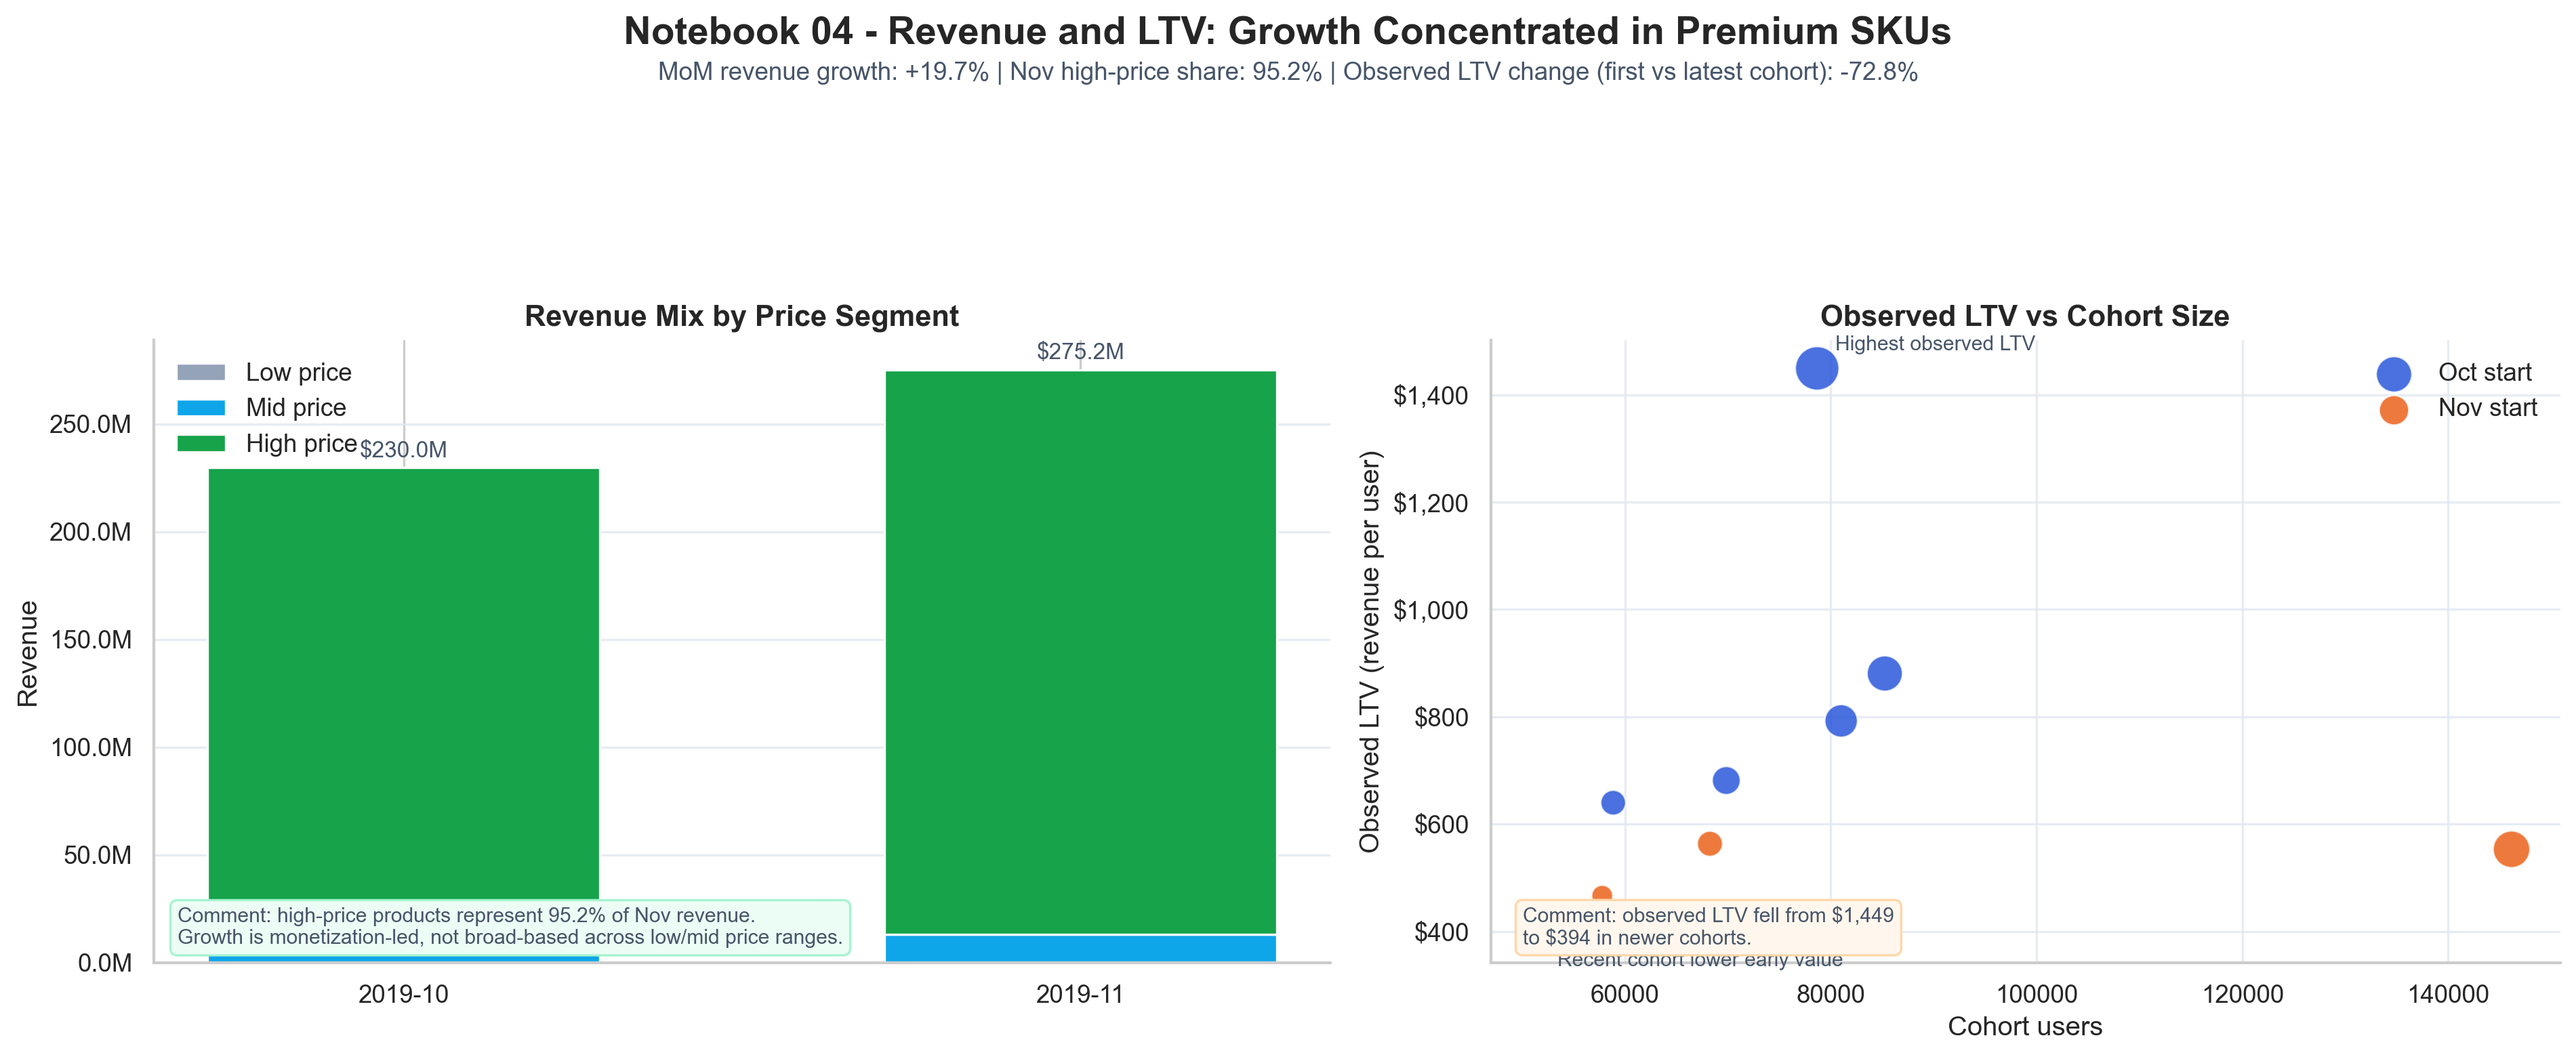
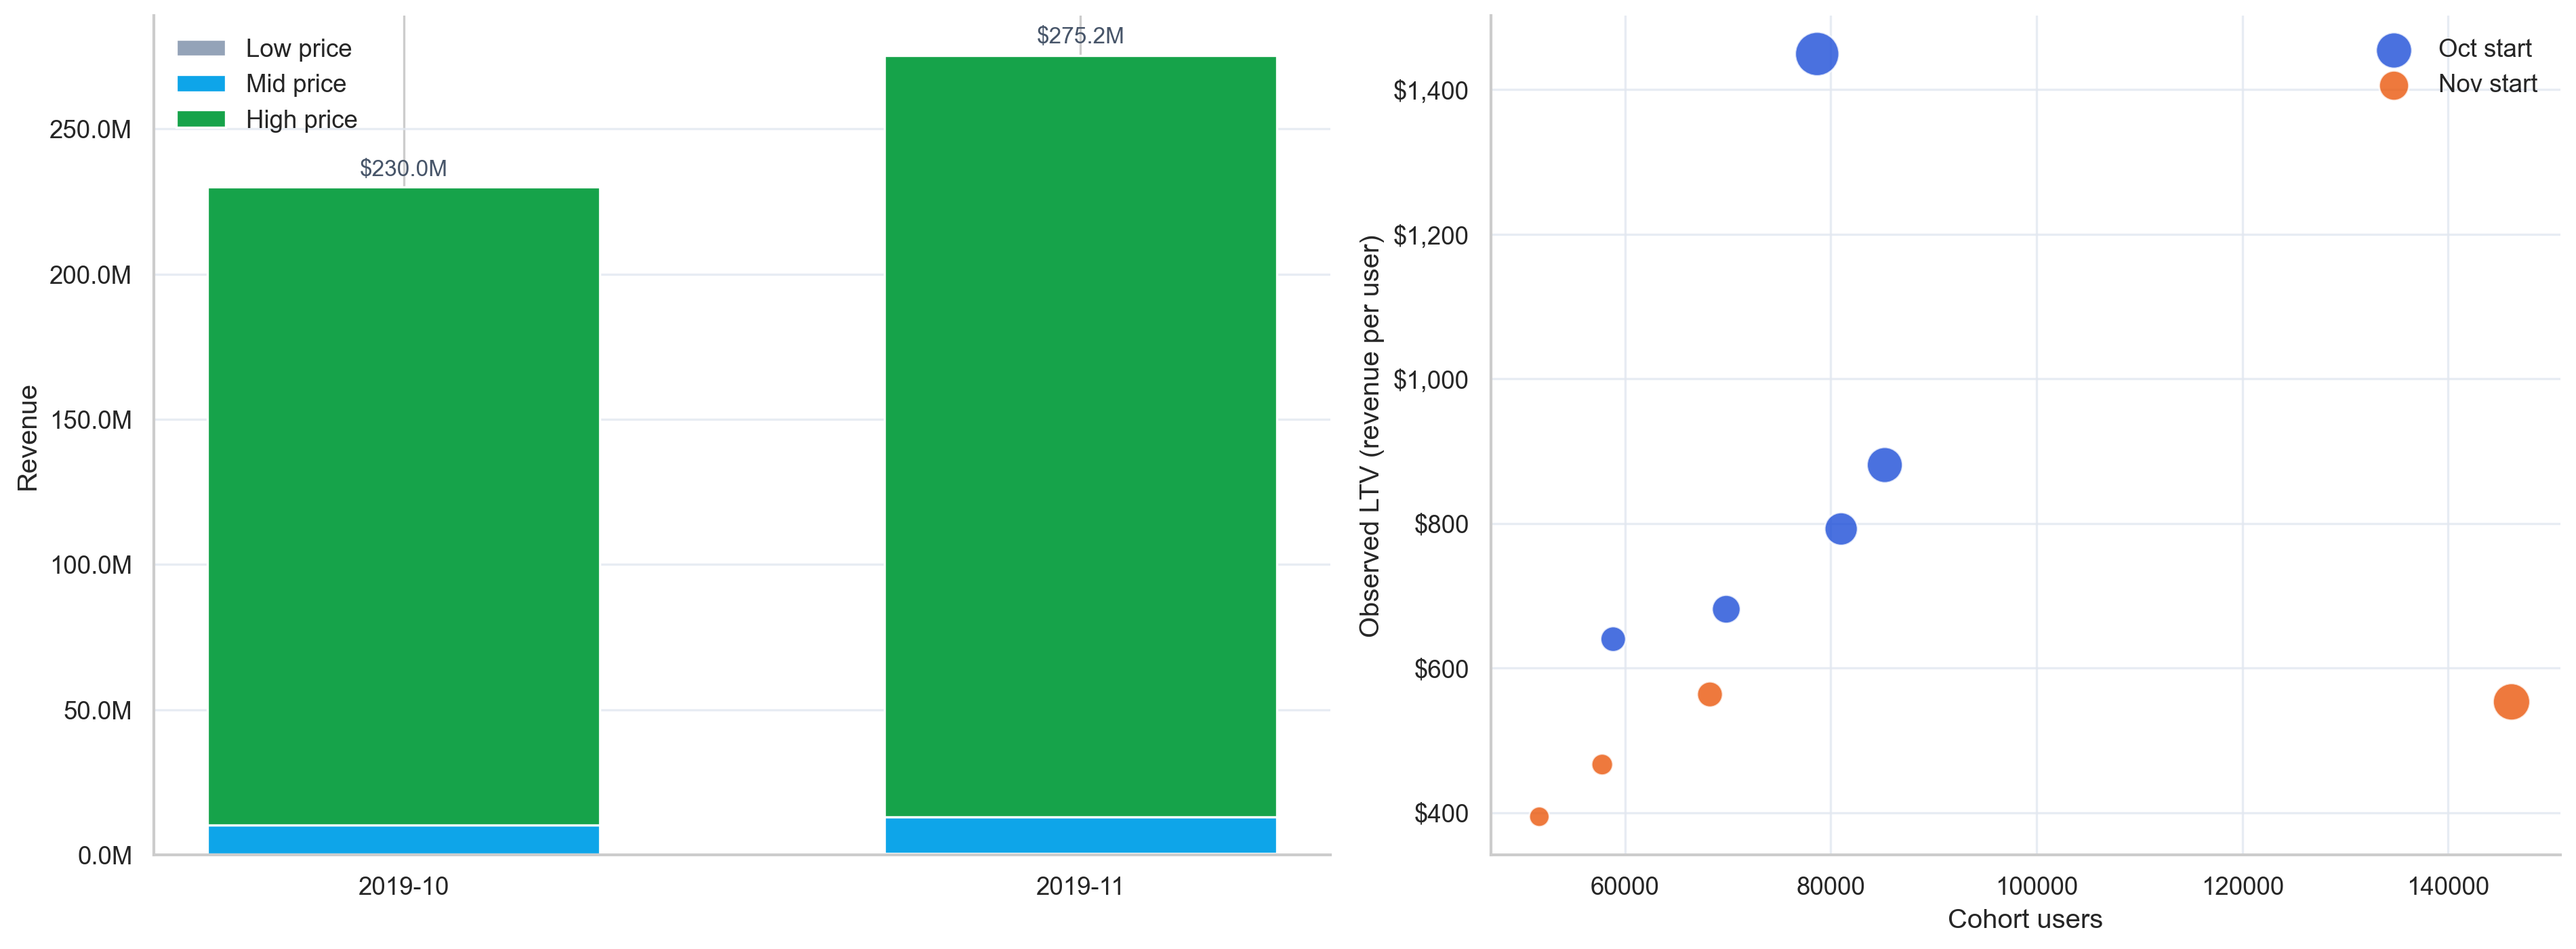
clean chart visuals and move narrative to html

diff --git a/docs/index.html b/docs/index.html
@@ -16,11 +16,15 @@
     ul { margin: 10px 0 0 20px; }
     li { margin: 6px 0; }
     .divider { height:1px; background:#eee; margin: 14px 0; }
-    .grid { display:grid; grid-template-columns: 1fr; gap: 14px; }
+    .grid { display:grid; grid-template-columns: 1fr; gap: 16px; }
     .visual { margin-top: 10px; }
     img { width:100%; border-radius: 10px; border:1px solid #eee; display:block; }
     .note { font-size: 13px; color:#555; margin-top:8px; }
     code { background:#f6f6f6; padding:2px 6px; border-radius: 6px; }
+    .viz-card { border:1px solid #e9e9e9; border-radius: 12px; padding: 14px; background: #fcfcfc; }
+    .viz-title { margin: 2px 0 6px 0; font-size: 20px; }
+    .viz-kicker { margin: 0 0 10px 0; color:#555; font-size: 14px; }
+    .viz-insight { margin: 10px 0 0 0; color:#333; font-size: 14px; }
   </style>
 </head>
 <body>
@@ -57,19 +61,25 @@
       <div class="meta">These images are generated automatically in <code>/assets</code> by the script in this repo.</div>
 
       <div class="grid">
-        <div>
+        <div class="viz-card">
+          <h4 class="viz-title">01) Funnel Conversion and Volume Dynamics</h4>
+          <p class="viz-kicker">Left: conversion by stage. Right: user volume by stage.</p>
           <img src="https://raw.githubusercontent.com/Victor-Garlet/growth-funnel-analytics/main/assets/funnel.png" alt="Funnel conversion by month" />
-          <p class="meta">Interpretation: intent improved in the upper funnel, but checkout conversion fell, indicating friction in the final purchase step.</p>
+          <p class="viz-insight"><strong>Insight:</strong> View-to-cart rose from 11.2% to 22.4%, but cart-to-purchase fell from 60.2% to 48.4%. Interest improved, while checkout efficiency weakened.</p>
         </div>
 
-        <div>
+        <div class="viz-card">
+          <h4 class="viz-title">02) Cohort Retention Quality</h4>
+          <p class="viz-kicker">Left: retention heatmap by cohort week. Right: retention decay curve by cohort group.</p>
           <img src="https://raw.githubusercontent.com/Victor-Garlet/growth-funnel-analytics/main/assets/retention.png" alt="Weekly retention heatmap by cohort" />
-          <p class="meta">Interpretation: repeat behavior is front-loaded, and newer cohorts start weaker than older cohorts in week 1.</p>
+          <p class="viz-insight"><strong>Insight:</strong> Average repeat drops from 13.3% in week 1 to 10.2% in week 2, and November cohorts start below October cohorts at week 1 (-3.6 pp).</p>
         </div>
 
-        <div>
+        <div class="viz-card">
+          <h4 class="viz-title">03) Revenue Mix and Cohort Monetization</h4>
+          <p class="viz-kicker">Left: monthly revenue mix by price segment. Right: observed LTV vs cohort size.</p>
           <img src="https://raw.githubusercontent.com/Victor-Garlet/growth-funnel-analytics/main/assets/revenue.png" alt="Revenue by price segment" />
-          <p class="meta">Interpretation: growth is monetization-led by premium products, while newer cohorts show lower observed early LTV.</p>
+          <p class="viz-insight"><strong>Insight:</strong> Revenue grew +19.7% MoM and 95.2% of November revenue came from high-price products. Newer cohorts show lower early observed LTV, signaling quality pressure.</p>
         </div>
       </div>
 

diff --git a/generate_portfolio_assets.py b/generate_portfolio_assets.py
@@ -241,7 +241,7 @@ def fmt_million(x: float, _pos: int | None = None) -> str:
     return f"{x / 1_000_000:.1f}M"
 
 
-def save_funnel_chart(funnel: pd.DataFrame, tracking_gap: pd.DataFrame, out_path: Path, dpi: int) -> None:
+def save_funnel_chart(funnel: pd.DataFrame, _tracking_gap: pd.DataFrame, out_path: Path, dpi: int) -> None:
     funnel = funnel.copy()
     funnel["event_month"] = funnel["event_month"].astype(str)
     rate_cols = ["view_to_cart_rate", "cart_to_purchase_rate", "view_to_purchase_rate"]
@@ -255,7 +255,6 @@ def save_funnel_chart(funnel: pd.DataFrame, tracking_gap: pd.DataFrame, out_path
     ax_rates.bar(x - w, funnel["view_to_cart_rate"], w, color=BLUE, label="View -> Cart")
     ax_rates.bar(x, funnel["cart_to_purchase_rate"], w, color=SLATE, label="Cart -> Purchase")
     ax_rates.bar(x + w, funnel["view_to_purchase_rate"], w, color=GREEN, label="View -> Purchase")
-    ax_rates.set_title("Funnel Conversion by Month", fontsize=13, fontweight="bold")
     ax_rates.set_xticks(x)
     ax_rates.set_xticklabels(funnel["event_month"])
     ax_rates.set_ylabel("Conversion rate")
@@ -281,7 +280,6 @@ def save_funnel_chart(funnel: pd.DataFrame, tracking_gap: pd.DataFrame, out_path
     ax_volumes.bar(x - w, funnel["view_users"], w, color=BLUE, label="View users")
     ax_volumes.bar(x, funnel["cart_users"], w, color=SLATE, label="Cart users")
     ax_volumes.bar(x + w, funnel["purchase_users"], w, color=GREEN, label="Purchase users")
-    ax_volumes.set_title("Monthly Funnel Volume", fontsize=13, fontweight="bold")
     ax_volumes.set_xticks(x)
     ax_volumes.set_xticklabels(funnel["event_month"])
     ax_volumes.set_ylabel("Users")
@@ -291,53 +289,7 @@ def save_funnel_chart(funnel: pd.DataFrame, tracking_gap: pd.DataFrame, out_path
     ax_volumes.spines["right"].set_visible(False)
     ax_volumes.legend(frameon=False, loc="upper right")
 
-    oct_row, nov_row = funnel.iloc[0], funnel.iloc[1]
-    v2c_pp = (nov_row["view_to_cart_rate"] - oct_row["view_to_cart_rate"]) * 100
-    c2p_pp = (nov_row["cart_to_purchase_rate"] - oct_row["cart_to_purchase_rate"]) * 100
-    v2p_pp = (nov_row["view_to_purchase_rate"] - oct_row["view_to_purchase_rate"]) * 100
-    view_mom = (nov_row["view_users"] - oct_row["view_users"]) / oct_row["view_users"]
-    cart_mom = (nov_row["cart_users"] - oct_row["cart_users"]) / oct_row["cart_users"]
-    nov_gap = tracking_gap.loc[tracking_gap["event_month"] == "2019-11", "share_without_cart"].iloc[0]
-
-    ax_rates.text(
-        0.02,
-        0.03,
-        (
-            f"Comment: top-of-funnel intent improved strongly (+{v2c_pp:.1f} pp),\n"
-            f"but checkout efficiency dropped ({c2p_pp:.1f} pp)."
-        ),
-        transform=ax_rates.transAxes,
-        fontsize=9,
-        color=MUTED,
-        bbox={"facecolor": "#EEF2FF", "edgecolor": "#C7D2FE", "boxstyle": "round,pad=0.35"},
-    )
-    ax_volumes.text(
-        0.02,
-        0.03,
-        (
-            f"Comment: cart users grew {cart_mom:+.0%} vs view users {view_mom:+.0%}.\n"
-            "Priority: audit checkout and payment-drop diagnostics."
-        ),
-        transform=ax_volumes.transAxes,
-        fontsize=9,
-        color=MUTED,
-        bbox={"facecolor": "#ECFDF5", "edgecolor": "#A7F3D0", "boxstyle": "round,pad=0.35"},
-    )
-
-    fig.suptitle("Notebook 02 - Growth Funnel: Momentum vs Friction", fontsize=17, fontweight="bold", y=1.08)
-    fig.text(
-        0.5,
-        1.015,
-        (
-            f"View->Cart {v2c_pp:+.1f} pp | Cart->Purchase {c2p_pp:+.1f} pp | "
-            f"View->Purchase {v2p_pp:+.1f} pp | Purchases without cart event (Nov): {pct(nov_gap)}"
-        ),
-        ha="center",
-        fontsize=11,
-        color=MUTED,
-    )
-
-    plt.tight_layout(rect=[0, 0, 1, 0.88])
+    plt.tight_layout()
     fig.savefig(out_path, bbox_inches="tight")
     plt.close(fig)
 
@@ -376,7 +328,6 @@ def save_retention_chart(retention: pd.DataFrame, out_path: Path, dpi: int) -> N
         cbar_kws={"label": "Retention"},
         ax=ax_heatmap,
     )
-    ax_heatmap.set_title("Weekly Purchase Retention Heatmap", fontsize=13, fontweight="bold")
     ax_heatmap.set_xlabel("Weeks Since First Purchase")
     ax_heatmap.set_ylabel("Cohort Week")
 
@@ -401,7 +352,6 @@ def save_retention_chart(retention: pd.DataFrame, out_path: Path, dpi: int) -> N
         color=TEAL,
         label="All cohorts avg",
     )
-    ax_curve.set_title("Retention Decay: Early vs Recent Cohorts", fontsize=13, fontweight="bold")
     ax_curve.set_xlabel("Weeks Since First Purchase")
     ax_curve.set_ylabel("Retention rate")
     ax_curve.yaxis.set_major_formatter(FuncFormatter(lambda v, _p: f"{v:.0%}"))
@@ -412,55 +362,7 @@ def save_retention_chart(retention: pd.DataFrame, out_path: Path, dpi: int) -> N
     ax_curve.spines["right"].set_visible(False)
     ax_curve.legend(frameon=False, loc="upper right")
 
-    wk1 = avg_curve.loc[avg_curve["week_number"] == 1, "retention_rate"].iloc[0]
-    wk2 = avg_curve.loc[avg_curve["week_number"] == 2, "retention_rate"].iloc[0]
-    decay = (wk2 - wk1) * 100
-
-    nov_wk1 = curves.loc[
-        (curves["cohort_group"] == "Recent cohorts (Nov)") & (curves["week_number"] == 1),
-        "retention_rate",
-    ]
-    oct_wk1 = curves.loc[
-        (curves["cohort_group"] == "Early cohorts (Oct)") & (curves["week_number"] == 1),
-        "retention_rate",
-    ]
-    gap_text = ""
-    if not nov_wk1.empty and not oct_wk1.empty:
-        gap = (nov_wk1.iloc[0] - oct_wk1.iloc[0]) * 100
-        gap_text = f" | Nov cohorts vs Oct at week 1: {gap:+.1f} pp"
-
-    ax_curve.text(
-        0.03,
-        0.03,
-        (
-            f"Comment: week 1 repeat = {wk1:.1%}, week 2 = {wk2:.1%} ({decay:+.1f} pp).\n"
-            "Main risk: early repeat weakens quickly after first purchase."
-        ),
-        transform=ax_curve.transAxes,
-        fontsize=9,
-        color=MUTED,
-        bbox={"facecolor": "#F0F9FF", "edgecolor": "#BAE6FD", "boxstyle": "round,pad=0.35"},
-    )
-    ax_heatmap.text(
-        0.02,
-        -0.16,
-        "Comment: recent cohorts start below older cohorts in week 1, suggesting lower acquisition quality.",
-        transform=ax_heatmap.transAxes,
-        fontsize=9,
-        color=MUTED,
-    )
-
-    fig.suptitle("Notebook 03 - Retention Cohorts: Strong Start, Fast Decay", fontsize=17, fontweight="bold", y=1.08)
-    fig.text(
-        0.5,
-        1.015,
-        f"Week 1 to week 2 retention change: {decay:+.1f} pp{gap_text}",
-        ha="center",
-        fontsize=11,
-        color=MUTED,
-    )
-
-    plt.tight_layout(rect=[0, 0, 1, 0.88])
+    plt.tight_layout()
     fig.savefig(out_path, bbox_inches="tight")
     plt.close(fig)
 
@@ -479,8 +381,6 @@ def save_revenue_chart(revenue: pd.DataFrame, ltv: pd.DataFrame, out_path: Path,
         .fillna(0.0)
     )
     totals = rev_pivot.sum(axis=1)
-    high_share_nov = rev_pivot.loc["2019-11", "high"] / totals.loc["2019-11"]
-    rev_mom = (totals.loc["2019-11"] - totals.loc["2019-10"]) / totals.loc["2019-10"]
 
     ltv["cohort_label"] = ltv["cohort_week"].dt.strftime("%Y-%m-%d")
     ltv["cohort_group"] = np.where(ltv["cohort_week"] < pd.Timestamp("2019-11-01"), "Oct start", "Nov start")
@@ -504,7 +404,6 @@ def save_revenue_chart(revenue: pd.DataFrame, ltv: pd.DataFrame, out_path: Path,
 
     ax_mix.set_xticks(x)
     ax_mix.set_xticklabels(rev_pivot.index)
-    ax_mix.set_title("Revenue Mix by Price Segment", fontsize=13, fontweight="bold")
     ax_mix.set_ylabel("Revenue")
     ax_mix.yaxis.set_major_formatter(FuncFormatter(fmt_million))
     ax_mix.grid(axis="y", color=GRID, linewidth=1, alpha=0.8)
@@ -531,7 +430,6 @@ def save_revenue_chart(revenue: pd.DataFrame, ltv: pd.DataFrame, out_path: Path,
             linewidth=0.8,
         )
 
-    ax_ltv.set_title("Observed LTV vs Cohort Size", fontsize=13, fontweight="bold")
     ax_ltv.set_xlabel("Cohort users")
     ax_ltv.set_ylabel("Observed LTV (revenue per user)")
     ax_ltv.yaxis.set_major_formatter(FuncFormatter(lambda v, _p: f"${v:,.0f}"))
@@ -540,65 +438,7 @@ def save_revenue_chart(revenue: pd.DataFrame, ltv: pd.DataFrame, out_path: Path,
     ax_ltv.spines["right"].set_visible(False)
     ax_ltv.legend(frameon=False, loc="upper right")
 
-    first_cohort = ltv.iloc[0]
-    last_cohort = ltv.iloc[-1]
-    ax_ltv.annotate(
-        "Highest observed LTV",
-        xy=(first_cohort["cohort_users"], first_cohort["observed_ltv"]),
-        xytext=(8, 8),
-        textcoords="offset points",
-        fontsize=9,
-        color=MUTED,
-    )
-    ax_ltv.annotate(
-        "Recent cohort lower early value",
-        xy=(last_cohort["cohort_users"], last_cohort["observed_ltv"]),
-        xytext=(8, -14),
-        textcoords="offset points",
-        fontsize=9,
-        color=MUTED,
-    )
-
-    ltv_drop = (last_cohort["observed_ltv"] - first_cohort["observed_ltv"]) / first_cohort["observed_ltv"]
-    ax_mix.text(
-        0.02,
-        0.03,
-        (
-            f"Comment: high-price products represent {high_share_nov:.1%} of Nov revenue.\n"
-            "Growth is monetization-led, not broad-based across low/mid price ranges."
-        ),
-        transform=ax_mix.transAxes,
-        fontsize=9,
-        color=MUTED,
-        bbox={"facecolor": "#ECFDF5", "edgecolor": "#A7F3D0", "boxstyle": "round,pad=0.35"},
-    )
-    ax_ltv.text(
-        0.03,
-        0.03,
-        (
-            f"Comment: observed LTV fell from ${first_cohort['observed_ltv']:,.0f}\n"
-            f"to ${last_cohort['observed_ltv']:,.0f} in newer cohorts."
-        ),
-        transform=ax_ltv.transAxes,
-        fontsize=9,
-        color=MUTED,
-        bbox={"facecolor": "#FFF7ED", "edgecolor": "#FED7AA", "boxstyle": "round,pad=0.35"},
-    )
-
-    fig.suptitle("Notebook 04 - Revenue and LTV: Growth Concentrated in Premium SKUs", fontsize=17, fontweight="bold", y=1.08)
-    fig.text(
-        0.5,
-        1.015,
-        (
-            f"MoM revenue growth: {rev_mom:+.1%} | Nov high-price share: {high_share_nov:.1%} | "
-            f"Observed LTV change (first vs latest cohort): {ltv_drop:+.1%}"
-        ),
-        ha="center",
-        fontsize=11,
-        color=MUTED,
-    )
-
-    plt.tight_layout(rect=[0, 0, 1, 0.88])
+    plt.tight_layout()
     fig.savefig(out_path, bbox_inches="tight")
     plt.close(fig)
 
